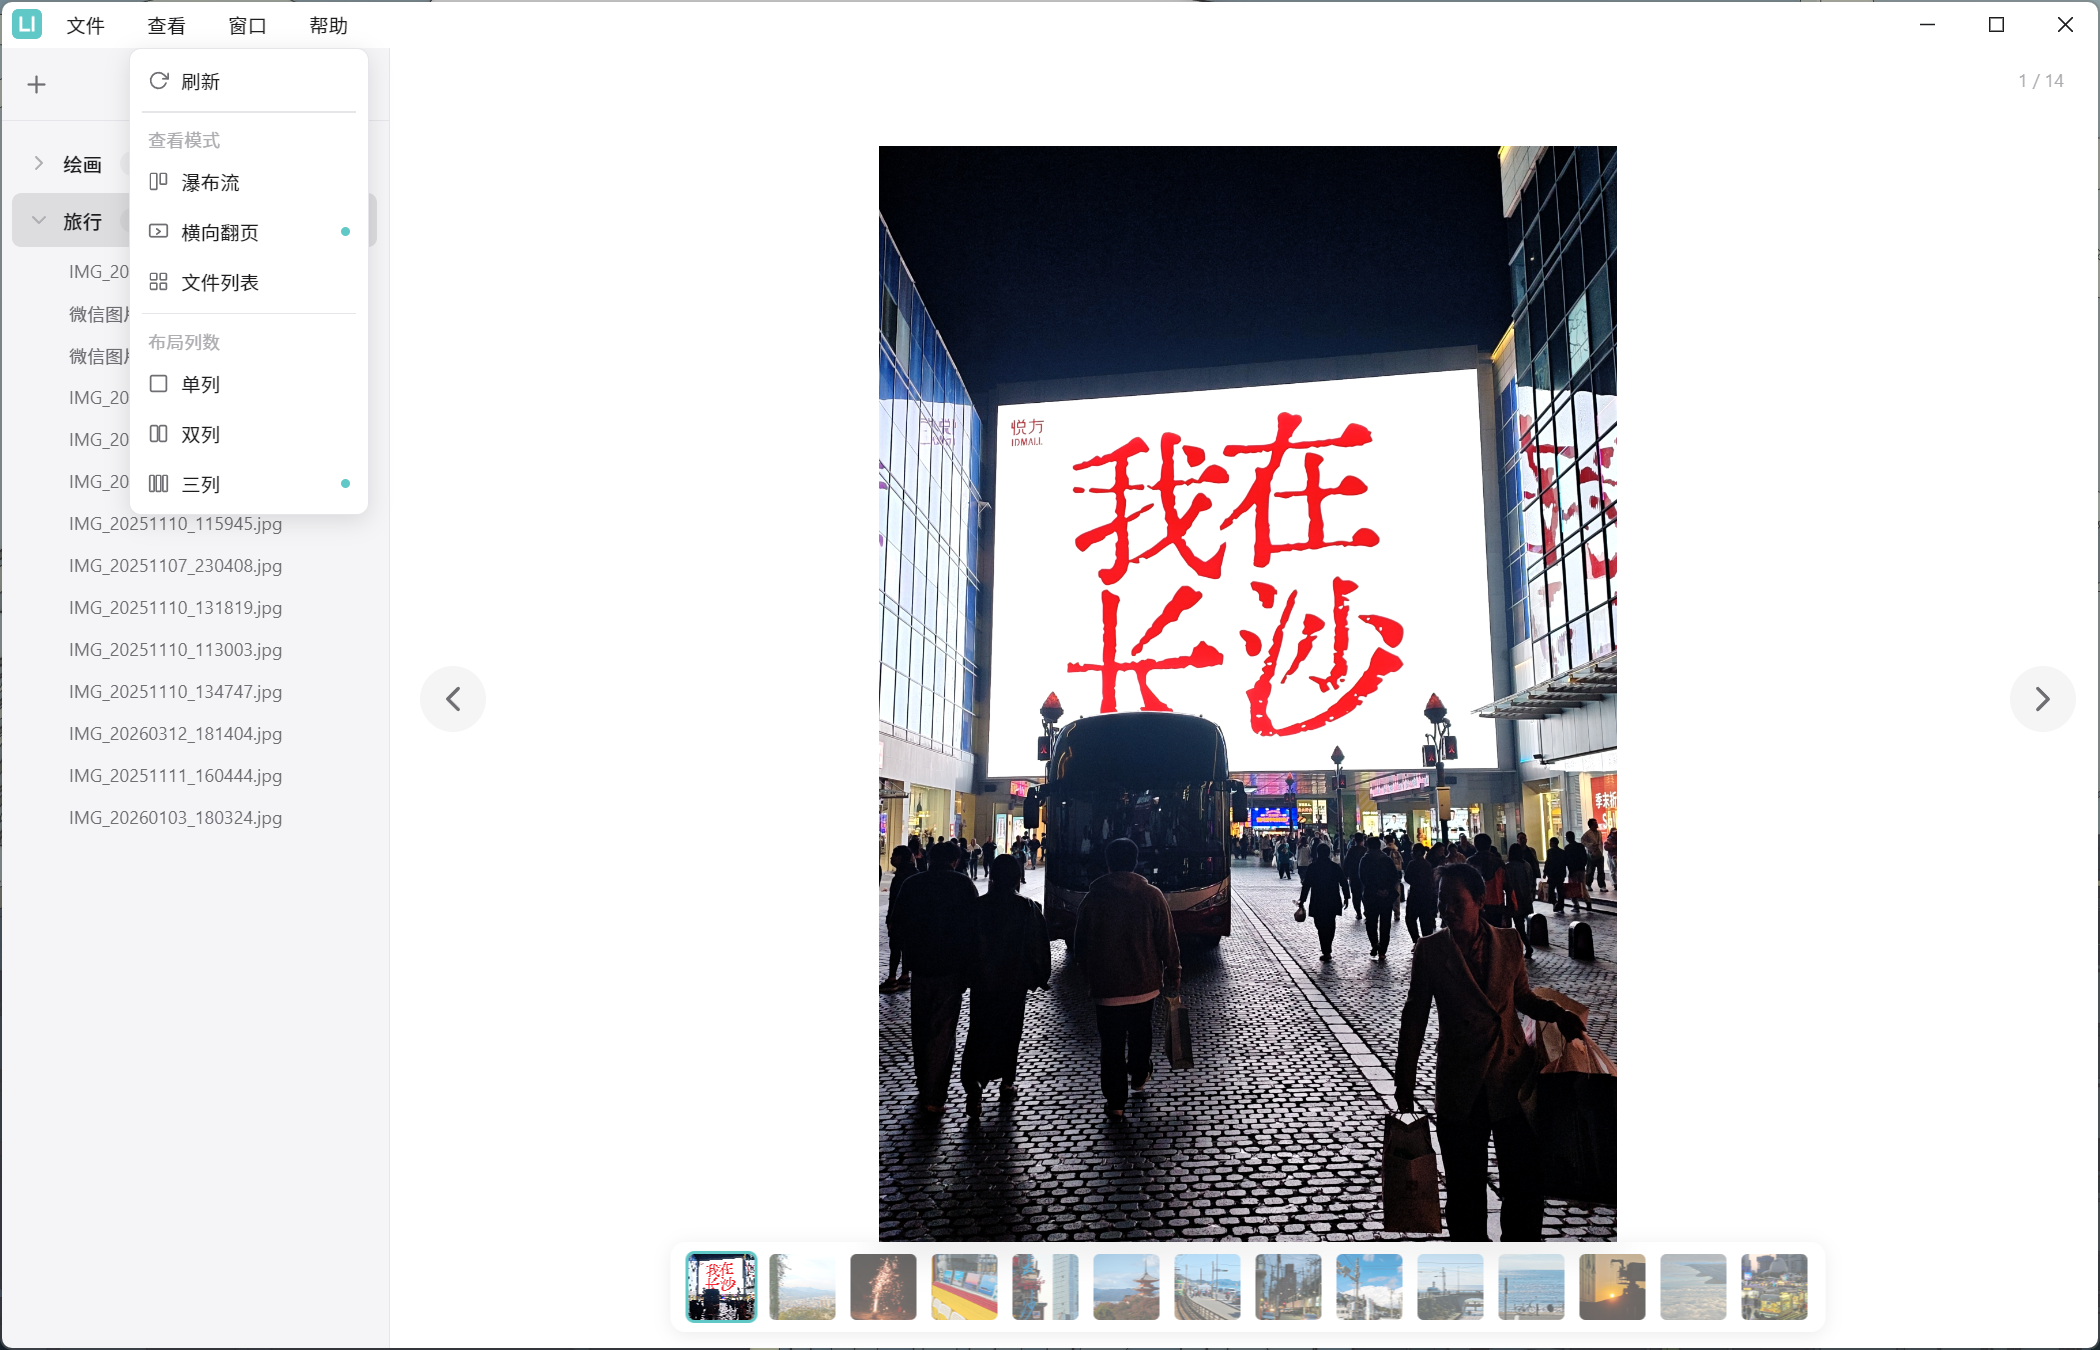
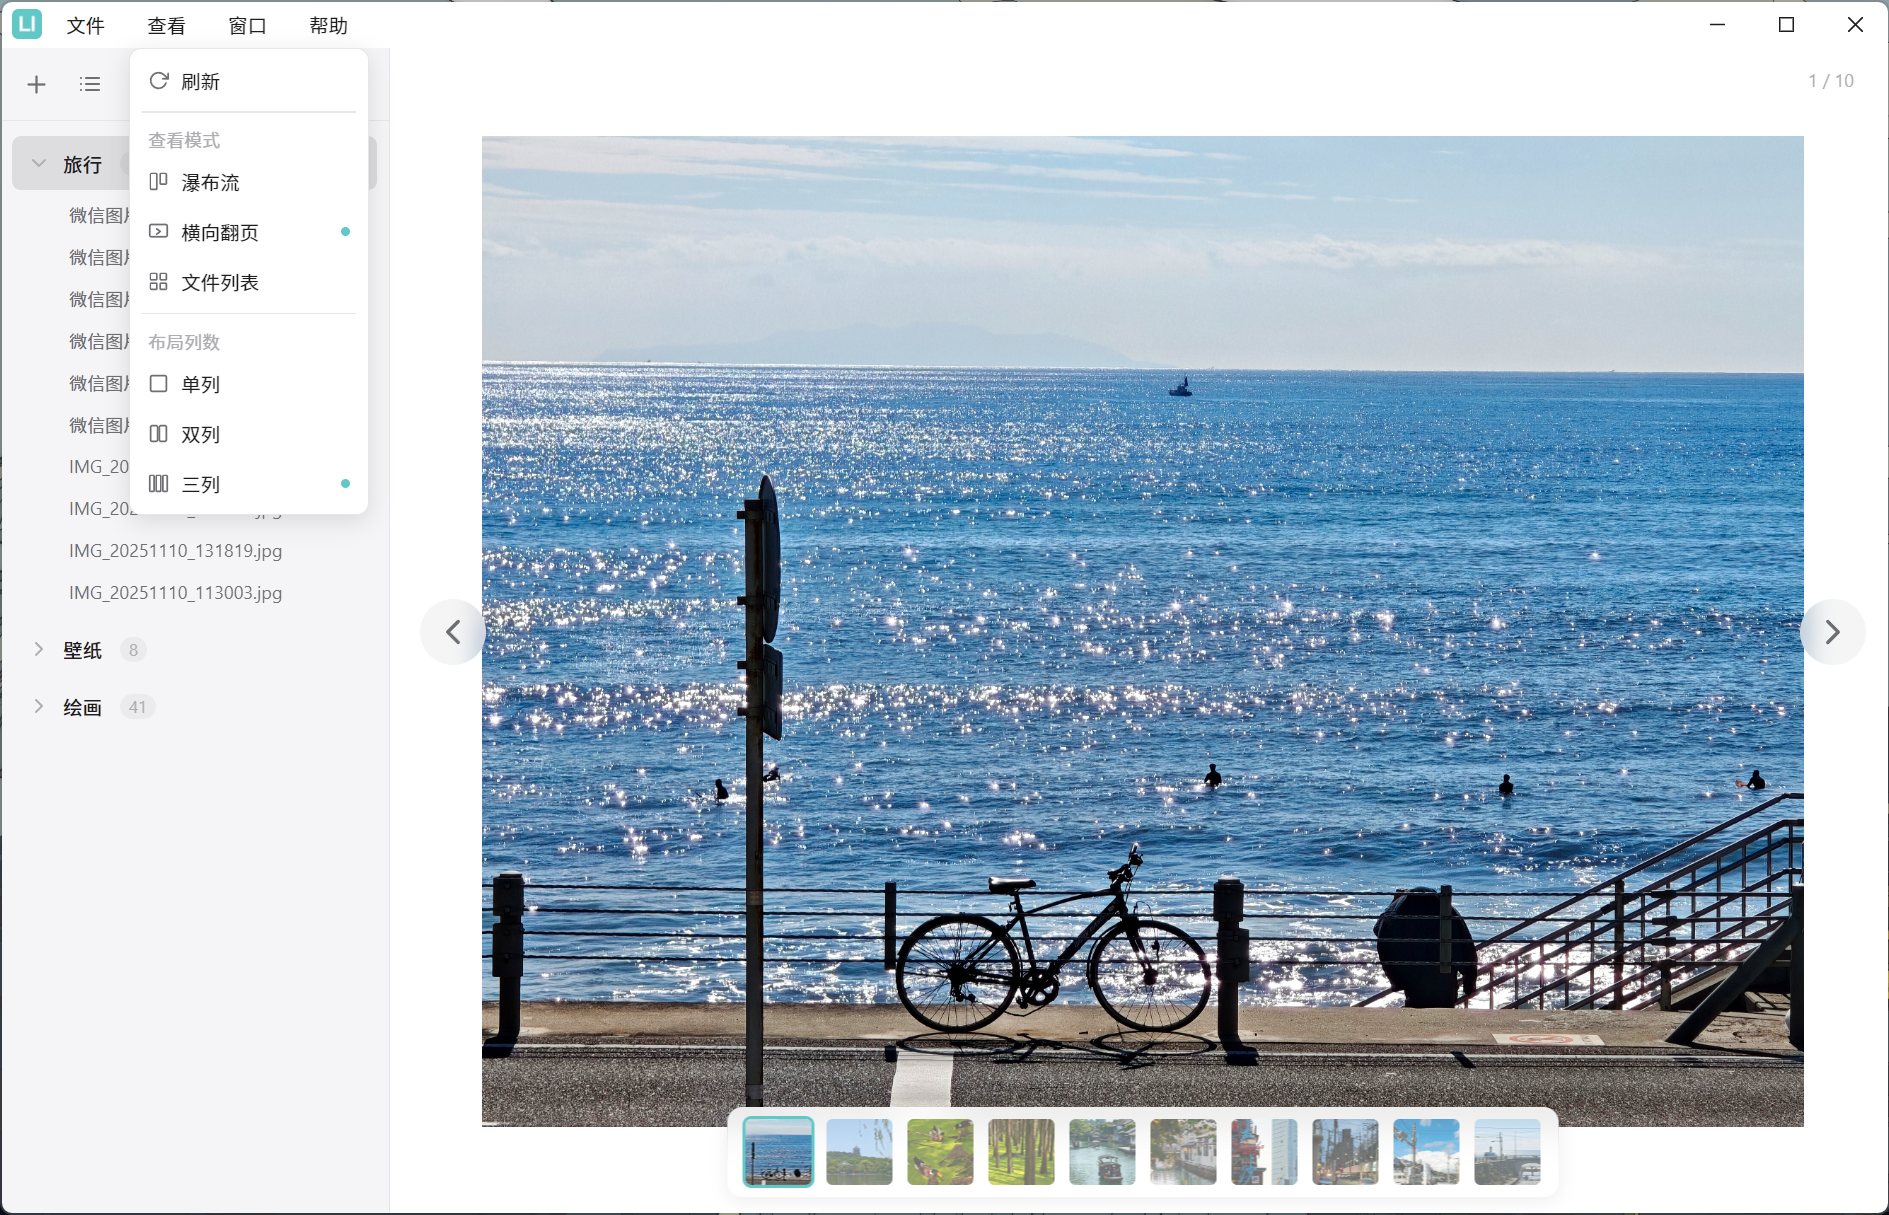
docs: 更新README.md

diff --git a/README.md b/README.md
@@ -20,6 +20,10 @@
 
 ![](docs/img/img_3.png)
 
+> 深色模式
+
+![](docs/img/img_4.png)
+
 ## 功能
 
 - 多文件夹管理 — 添加、重命名（别名）、排序、上下移动
